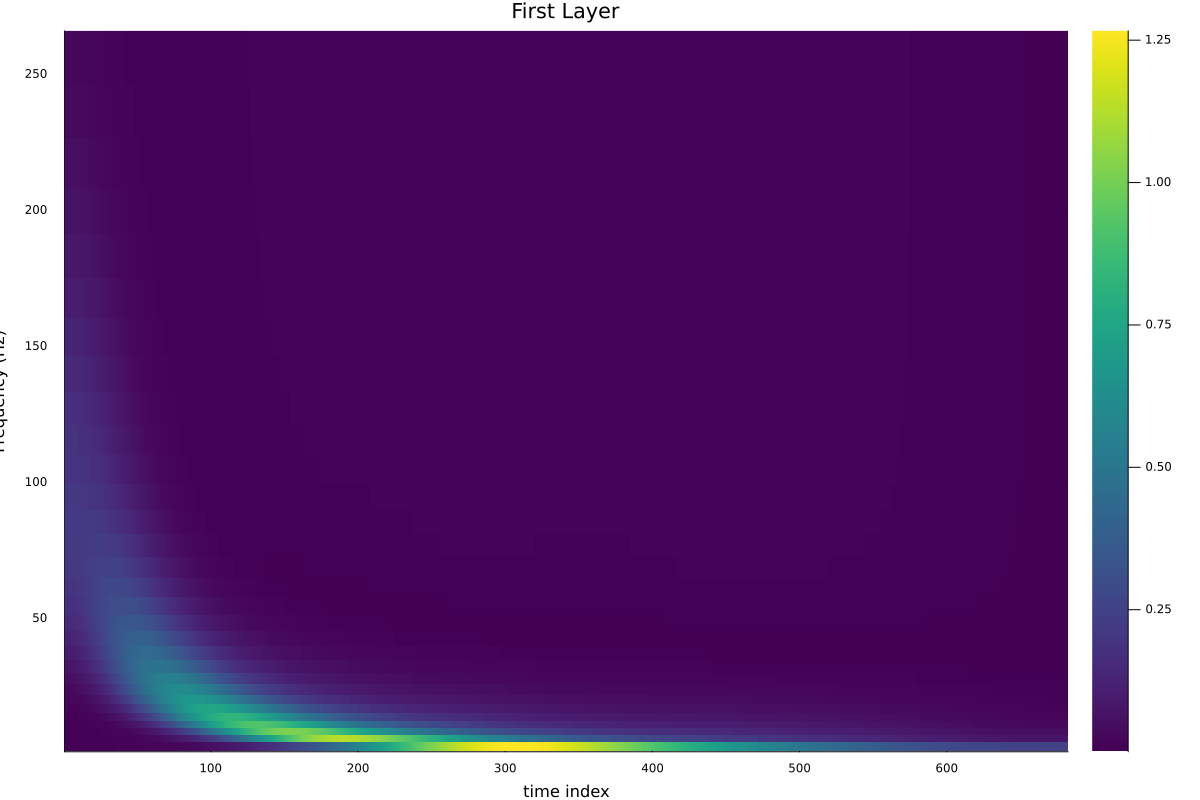
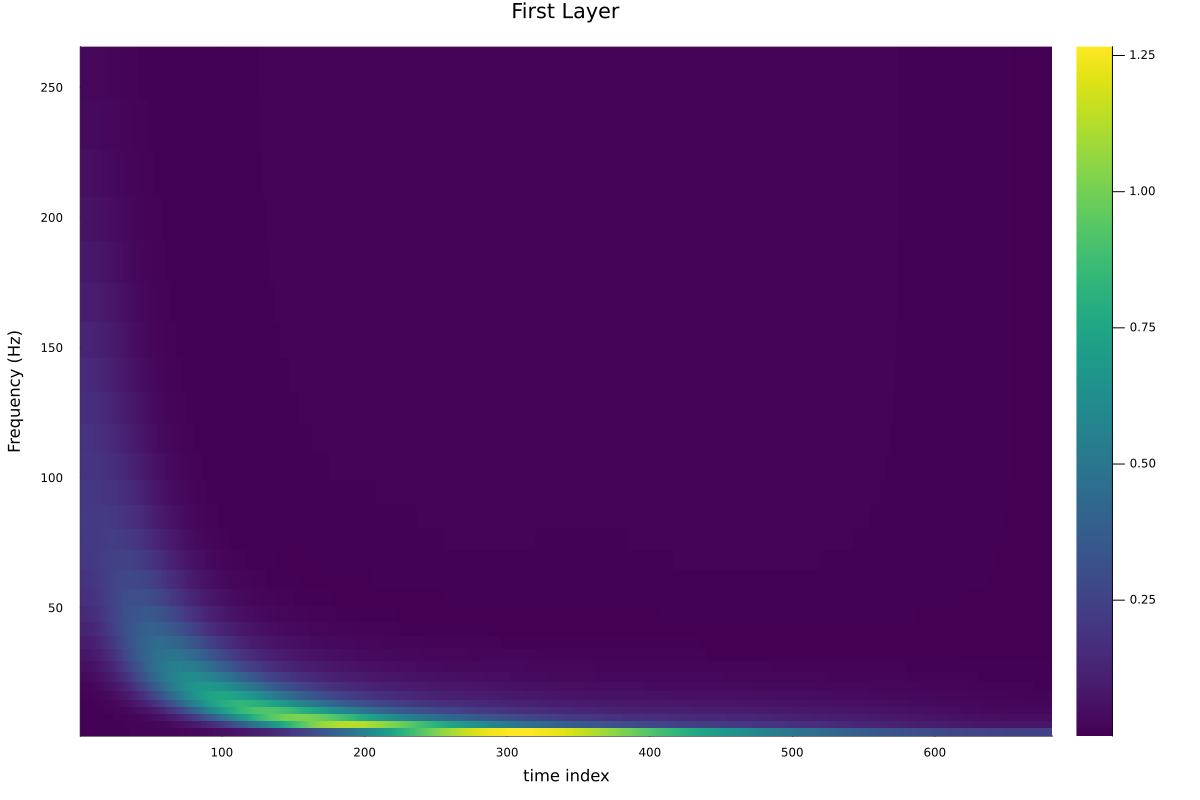
Added plot function for the 1D Zeroth Layer, adjusted documentation display of plotting utilities, and adjusted code for some plots to keep labels from being cut off.

Changed region(s): [[0.0, 0.0312, 0.9867, 1.0]]

diff --git a/docs/src/index.md b/docs/src/index.md
@@ -26,6 +26,7 @@ N = 2047
 f = testfunction(N, "Doppler")
 plot(f, legend=false, title="Doppler signal")
 savefig("figures/rawDoppler.svg"); #hide
+nothing # hide
 ```
 
 ![](figures/rawDoppler.svg)
@@ -47,8 +48,12 @@ The results `sf` are stored in the `ScatteredOut` type; for a two layer scatteri
 The zeroth layer is simply a moving average of the original signal:
 
 ```@example ex
-plot(sf[0][:, 1, 1], title="Zeroth Layer", legend=false)
+plotZerothLayer1D(sf)
+savefig("figures/zerothLayer1D.png"); #hide
+nothing # hide
 ```
+
+![](figures/zerothLayer1D.png)
 
 ### First Layer
 
@@ -97,6 +102,7 @@ If desired, this package allows one to plot the results of a specific path. Here
 ```@example ex
 plotSecondLayerSpecificPath(sf, St, 3, 1, f)
 savefig("figures/specificPath.png"); #hide
+nothing # hide
 ```
 ![](figures/specificPath.png)
 
@@ -108,6 +114,7 @@ For example, we can generate a denser representation with the `plotSecondLayer` 
 ```@example ex
 plotSecondLayer(sf, St)
 savefig("figures/secondLayer.png"); #hide
+nothing # hide
 ```
 
 ![](figures/secondLayer.png)
@@ -122,6 +129,7 @@ Finally, we can constuct a joint plot of much of our prior information. This plo
 ```@example ex
 jointPlot(sf, "Scattering Transform", :viridis, St)
 savefig("figures/jointPlot.png"); #hide
+nothing # hide
 ```
 
 ![](figures/jointPlot.png)

diff --git a/docs/src/plots.md b/docs/src/plots.md
@@ -1,6 +1,7 @@
 # Plotting Scattering Transforms
 
 ```@docs
+ScatteringTransform.plotZerothLayer1D
 ScatteringTransform.plotFirstLayer1D
 ScatteringTransform.gifFirstLayer
 ScatteringTransform.plotFirstLayer1DAll
